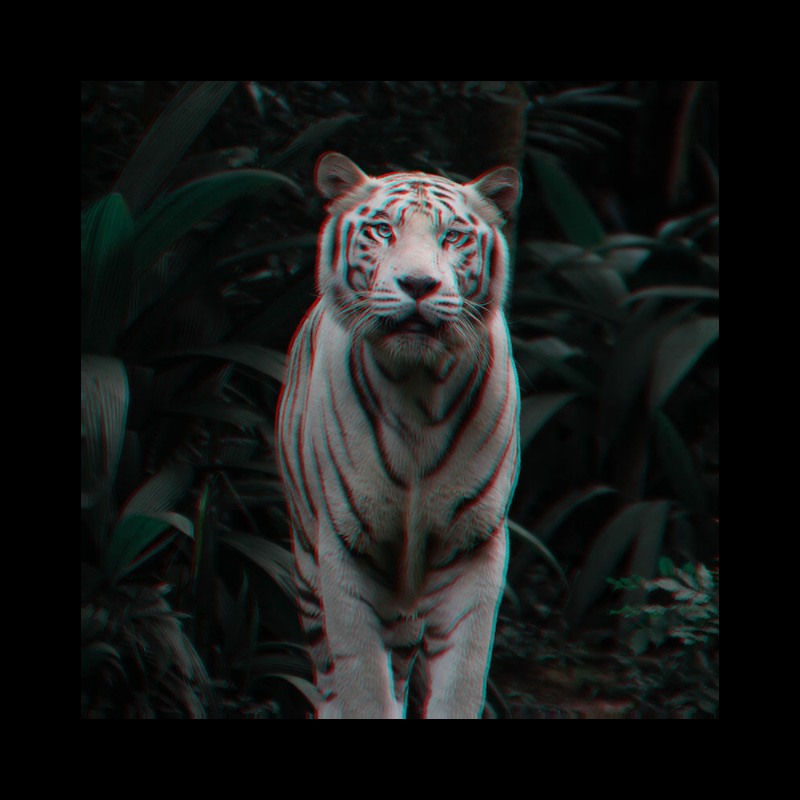
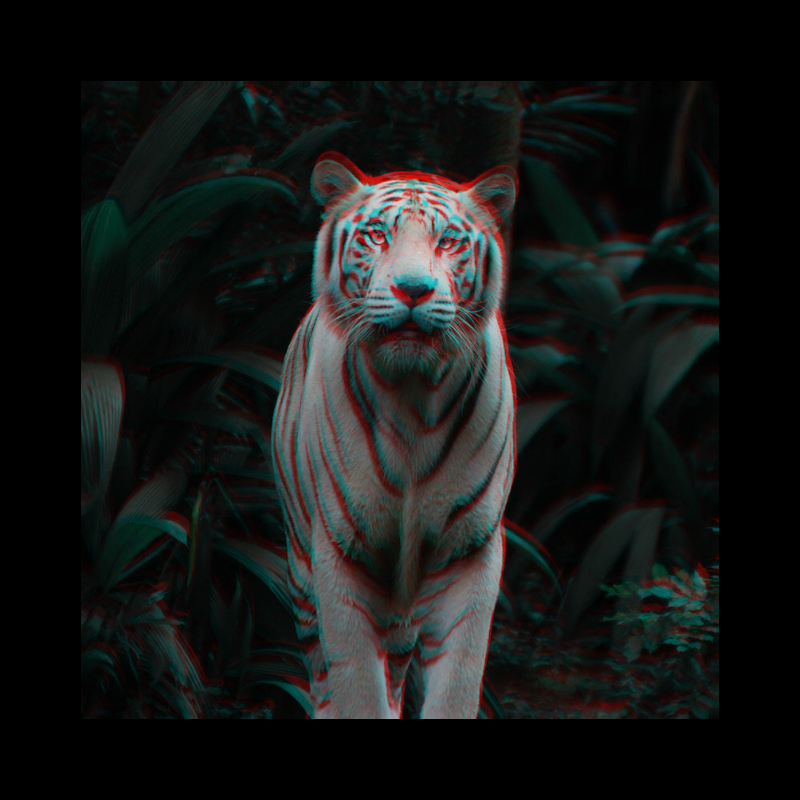
Add split

diff --git a/src/assets/js/split/index.ts b/src/assets/js/split/index.ts
@@ -1,0 +1,58 @@
+import * as THREE from "three";
+import vertexShader from "./shaders/vertex.glsl";
+import fragmentShader from "./shaders/fragment.glsl";
+
+const init = () => {
+  const getCanvasSize = (canvas: HTMLCanvasElement) => {
+    const width = canvas.getBoundingClientRect().width;
+    const height = canvas.getBoundingClientRect().width;
+    return { width, height };
+  };
+
+  const canvas = document.querySelector<HTMLCanvasElement>("#webgl");
+  if (!canvas) {
+    console.error("No Canvas was found");
+    return;
+  }
+  const { width, height } = getCanvasSize(canvas);
+
+  const scene = new THREE.Scene();
+
+  const geometry = new THREE.PlaneGeometry(2, 2);
+  const material = new THREE.ShaderMaterial({
+    vertexShader,
+    fragmentShader,
+  });
+
+  const mesh = new THREE.Mesh(geometry, material);
+  scene.add(mesh);
+
+  const camera = new THREE.PerspectiveCamera(60, width / height, 0.1, 1000);
+  camera.position.z = 2;
+  scene.add(camera);
+
+  const renderer = new THREE.WebGLRenderer({
+    canvas: canvas,
+  });
+  renderer.setSize(width, height);
+  renderer.setPixelRatio(window.devicePixelRatio);
+
+  const loop = () => {
+    renderer.render(scene, camera);
+    window.requestAnimationFrame(loop);
+  };
+  loop();
+
+  const handleResize = () => {
+    const { width, height } = getCanvasSize(canvas);
+
+    camera.aspect = width / height;
+    camera.updateProjectionMatrix();
+
+    renderer.setSize(width, height);
+    renderer.setPixelRatio(window.devicePixelRatio);
+  };
+  window.addEventListener("resize", handleResize);
+};
+
+window.addEventListener("DOMContentLoaded", init);
